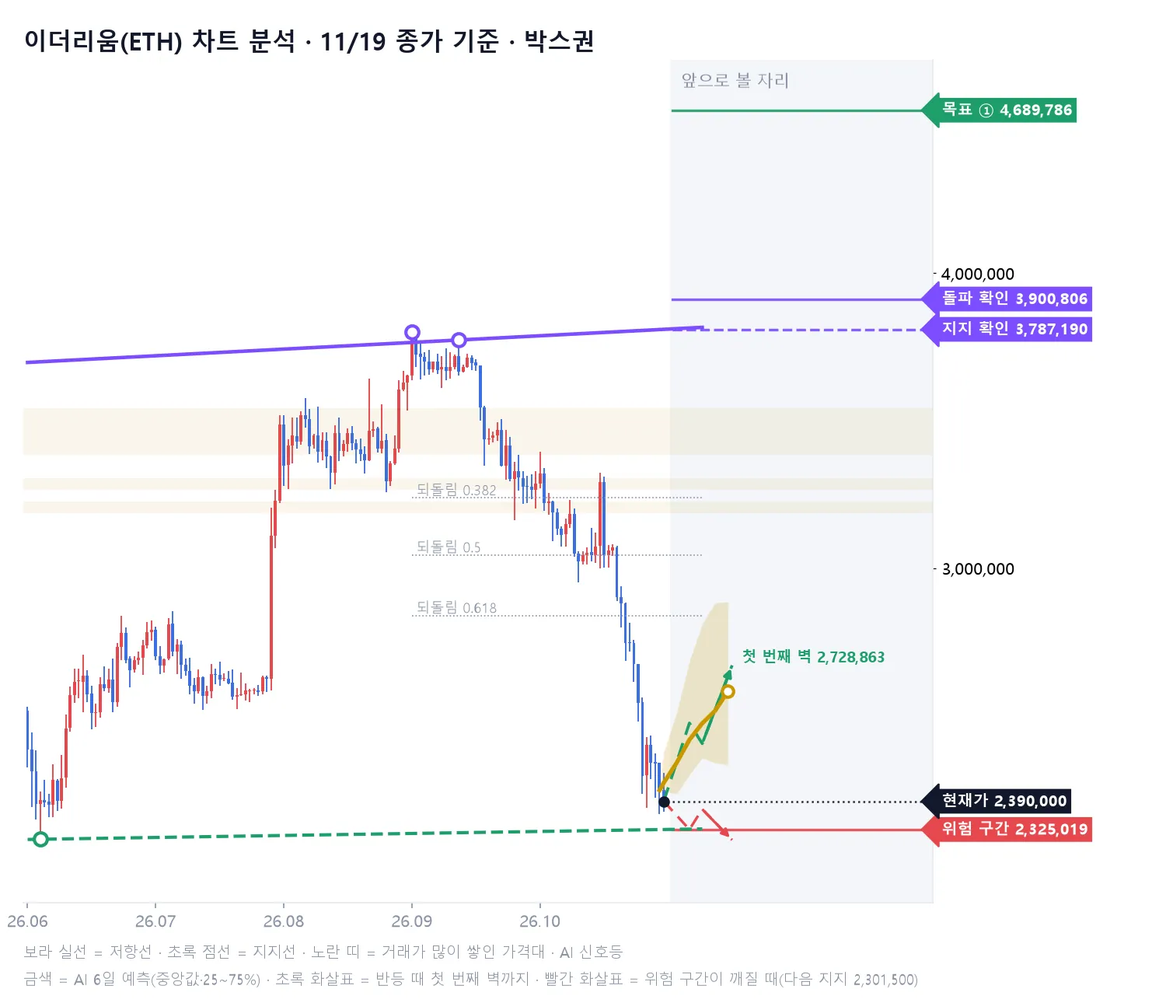
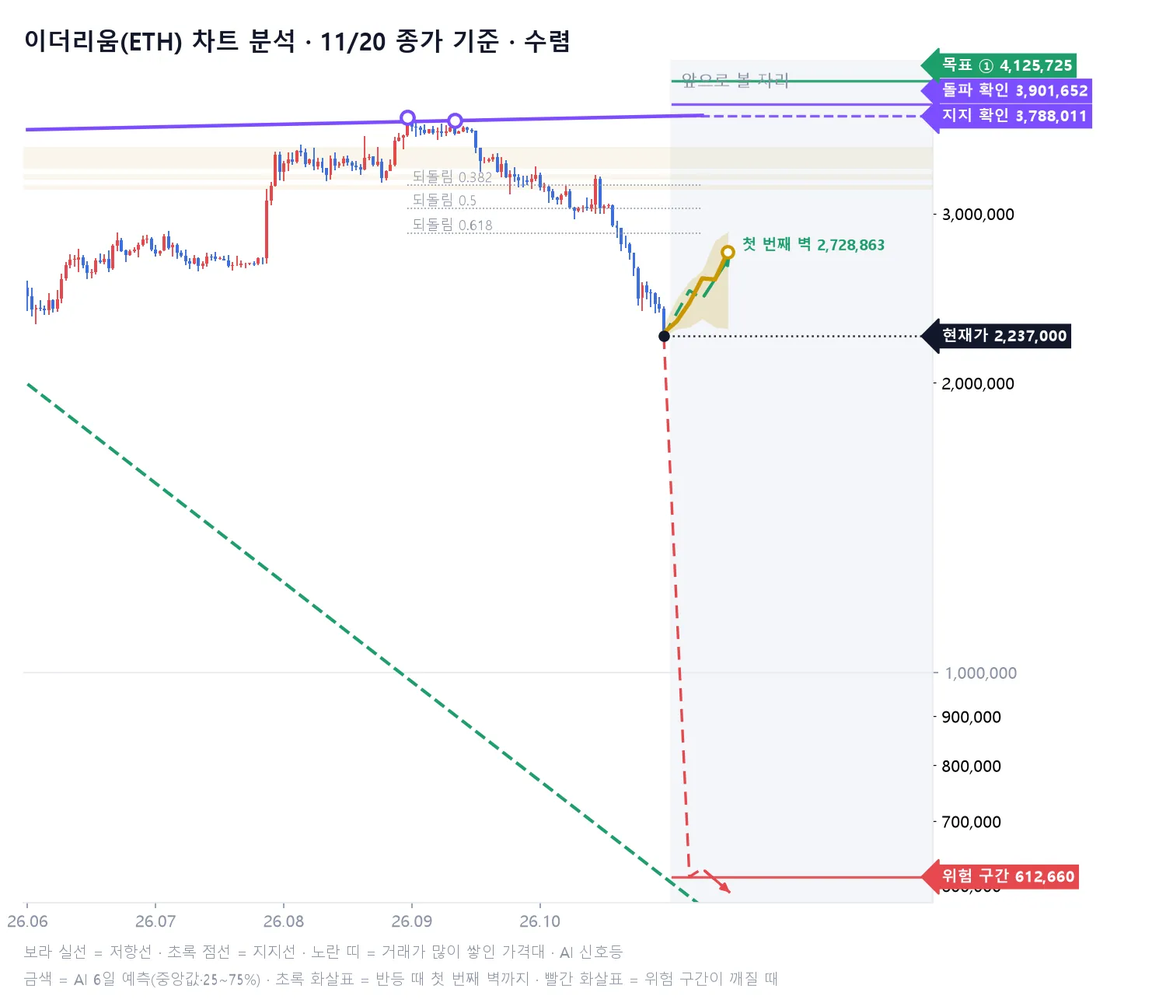
무료 공개 종목 페이지 자동 갱신

diff --git a/s/index.html b/s/index.html
@@ -81,8 +81,8 @@
     <h1>오늘의 무료 공개 종목</h1>
     <p style="margin:0;color:#B7BFD0">유튜브 쇼츠에 나온 종목의 AI 판정과 6일 예측 흐름을 누구나 볼 수 있어요</p>
   </section>
-  <div class="pk-list"><a class="card pk-item" href="BTC/"><span><b>비트코인(BTC)</b><small>코인 · 업비트 · 11/20 예측</small></span><b class="v-mx">혼돈</b></a><a class="card pk-item" href="SUI/"><span><b>수이(SUI)</b><small>코인 · 업비트 · 11/21 예측</small></span><b class="v-up">상승</b></a><a class="card pk-item" href="ZRO/"><span><b>레이어제로(ZRO)</b><small>코인 · 업비트 · 11/21 예측</small></span><b class="v-mx">혼돈</b></a><a class="card pk-item" href="XLM/"><span><b>스텔라루멘(XLM)</b><small>코인 · 업비트 · 11/21 예측</small></span><b class="v-up">상승</b></a><a class="card pk-item" href="ETC/"><span><b>이더리움클래식(ETC)</b><small>코인 · 업비트 · 11/21 예측</small></span><b class="v-up">상승</b></a><a class="card pk-item" href="MANA/"><span><b>디센트럴랜드(MANA)</b><small>코인 · 업비트 · 11/21 예측</small></span><b class="v-up">상승</b></a><a class="card pk-item" href="PALANTIR/"><span><b>팔란티어(PALANTIR)</b><small>미국 주식 · 11/21 예측</small></span><b class="v-up">상승</b></a><a class="card pk-item" href="NVIDIA/"><span><b>엔비디아(NVIDIA)</b><small>미국 주식 · 11/21 예측</small></span><b class="v-up">상승</b></a><a class="card pk-item" href="DOW/"><span><b>다우존스(DOW)</b><small>미국 주식 · 11/21 예측</small></span><b class="v-up">상승</b></a><a class="card pk-item" href="RUSSELL2000/"><span><b>러셀2000(RUSSELL2000)</b><small>미국 주식 · 11/21 예측</small></span><b class="v-up">상승</b></a><a class="card pk-item" href="MERCADOLIBRE/"><span><b>메르카도리브레(MERCADOLIBRE)</b><small>미국 주식 · 11/21 예측</small></span><b class="v-up">상승</b></a><a class="card pk-item" href="SK%ED%95%98%EC%9D%B4%EB%8B%89%EC%8A%A4/"><span><b>SK하이닉스(000660)</b><small>코스피200 · 11/20 예측</small></span><b class="v-mx">혼돈</b></a><a class="card pk-item" href="%EC%82%BC%EC%84%B1%EC%A0%84%EC%9E%90/"><span><b>삼성전자(005930)</b><small>코스피200 · 11/21 예측</small></span><b class="v-mx">혼돈</b></a><a class="card pk-item" href="%ED%95%9C%ED%99%94%EC%86%94%EB%A3%A8%EC%85%98/"><span><b>한화솔루션</b><small>코스피200 · 11/21 예측</small></span><b class="v-mx">혼돈</b></a><a class="card pk-item" href="KODEX%EB%AF%B8%EA%B5%AD%EB%82%98%EC%8A%A4%EB%8B%A5100TR/"><span><b>KODEX미국나스닥100TR</b><small>코스피200 · 11/21 예측</small></span><b class="v-up">상승</b></a><a class="card pk-item" href="TIGER2%EC%B0%A8%EC%A0%84%EC%A7%80%ED%85%8C%EB%A7%88/"><span><b>TIGER2차전지테마</b><small>코스피200 · 11/21 예측</small></span><b class="v-up">상승</b></a><a class="card pk-item" href="TIGER%EB%AF%B8%EA%B5%AD%ED%85%8C%ED%81%ACTOP10/"><span><b>TIGER미국테크TOP10</b><small>코스피200 · 11/21 예측</small></span><b class="v-up">상승</b></a><a class="card pk-item" href="KODEX2%EC%B0%A8%EC%A0%84%EC%A7%80%EC%82%B0%EC%97%85/"><span><b>KODEX2차전지산업</b><small>코스피200 · 11/21 예측</small></span><b class="v-up">상승</b></a><a class="card pk-item" href="KOSDAQ/"><span><b>코스닥(KOSDAQ)</b><small>코스피 지수 · 11/21 예측</small></span><b class="v-up">상승</b></a><a class="card pk-item" href="KOSPI/"><span><b>코스피(KOSPI)</b><small>코스피 지수 · 11/21 예측</small></span><b class="v-up">상승</b></a></div>
-  <h2 style="font-size:17px;margin:12px 0 0">지난 공개 종목</h2><div class="pk-list"><a class="card pk-item" href="APT/"><span><b>앱토스(APT)</b><small>코인 · 업비트 · 11/20 예측</small></span><b class="v-up">상승</b></a><a class="card pk-item" href="STRAX/"><span><b>저트라(STRAX)</b><small>코인 · 업비트 · 11/20 예측</small></span><b class="v-up">상승</b></a><a class="card pk-item" href="ENS/"><span><b>이더리움네임서비스(ENS)</b><small>코인 · 업비트 · 11/20 예측</small></span><b class="v-up">상승</b></a><a class="card pk-item" href="KODEXWTI%EC%9B%90%EC%9C%A0%EC%84%A0%EB%AC%BCH/"><span><b>KODEXWTI원유선물H</b><small>코스피200 · 11/20 예측</small></span><b class="v-up">상승</b></a><a class="card pk-item" href="%ED%95%9C%EC%A0%84%EA%B8%B0%EC%88%A0/"><span><b>한전기술</b><small>코스피200 · 11/20 예측</small></span><b class="v-up">상승</b></a><a class="card pk-item" href="KODEX%EA%B3%A8%EB%93%9C%EC%84%A0%EB%AC%BCH/"><span><b>KODEX골드선물H</b><small>코스피200 · 11/20 예측</small></span><b class="v-mx">혼돈</b></a><a class="card pk-item" href="ETH/"><span><b>이더리움(ETH)</b><small>코인 · 업비트 · 11/19 예측</small></span><b class="v-mx">혼돈</b></a><a class="card pk-item" href="TESLA/"><span><b>테슬라(TSLA)</b><small>미국 주식 · 11/19 예측</small></span><b class="v-mx">혼돈</b></a><a class="card pk-item" href="STRATEGY/"><span><b>스트래티지(STRATEGY)</b><small>미국 주식 · 11/19 예측</small></span><b class="v-up">상승</b></a><a class="card pk-item" href="NETFLIX/"><span><b>넷플릭스(NETFLIX)</b><small>미국 주식 · 11/19 예측</small></span><b class="v-up">상승</b></a><a class="card pk-item" href="SHIB/"><span><b>시바이누(SHIB)</b><small>코인 · 업비트 · 11/19 예측</small></span><b class="v-up">상승</b></a><a class="card pk-item" href="TOKAMAK/"><span><b>토카막네트워크(TOKAMAK)</b><small>코인 · 업비트 · 11/19 예측</small></span><b class="v-up">상승</b></a><a class="card pk-item" href="TIGER%EB%AF%B8%EA%B5%ADSP500/"><span><b>TIGER미국SP500</b><small>코스피200 · 11/19 예측</small></span><b class="v-mx">혼돈</b></a><a class="card pk-item" href="%EA%B8%B0%EC%95%84/"><span><b>기아</b><small>코스피200 · 11/19 예측</small></span><b class="v-mx">혼돈</b></a><a class="card pk-item" href="%ED%98%84%EB%8C%80%EB%A1%9C%ED%85%9C/"><span><b>현대로템</b><small>코스피200 · 11/19 예측</small></span><b class="v-up">상승</b></a><a class="card pk-item" href="TIGER%EB%B0%98%EB%8F%84%EC%B2%B4TOP10/"><span><b>TIGER반도체TOP10</b><small>코스피200 · 11/19 예측</small></span><b class="v-up">상승</b></a><a class="card pk-item" href="MBL/"><span><b>무비블록(MBL)</b><small>코인 · 업비트 · 11/18 예측</small></span><b class="v-up">상승</b></a><a class="card pk-item" href="SC/"><span><b>시아코인(SC)</b><small>코인 · 업비트 · 11/18 예측</small></span><b class="v-up">상승</b></a><a class="card pk-item" href="ELF/"><span><b>엘프(ELF)</b><small>코인 · 업비트 · 11/18 예측</small></span><b class="v-up">상승</b></a><a class="card pk-item" href="BITMINE/"><span><b>비트마인(BITMINE)</b><small>미국 주식 · 11/18 예측</small></span><b class="v-up">상승</b></a><a class="card pk-item" href="NASDAQ100/"><span><b>나스닥100(NASDAQ100)</b><small>미국 주식 · 11/18 예측</small></span><b class="v-up">상승</b></a><a class="card pk-item" href="NASDAQ/"><span><b>나스닥(NASDAQ)</b><small>미국 주식 · 11/18 예측</small></span><b class="v-up">상승</b></a><a class="card pk-item" href="DB%ED%95%98%EC%9D%B4%ED%85%8D/"><span><b>DB하이텍</b><small>코스피200 · 11/18 예측</small></span><b class="v-up">상승</b></a><a class="card pk-item" href="%ED%95%9C%ED%99%94%EC%83%9D%EB%AA%85/"><span><b>한화생명</b><small>코스피200 · 11/18 예측</small></span><b class="v-mx">혼돈</b></a><a class="card pk-item" href="SOL/"><span><b>솔라나(SOL)</b><small>코인 · 업비트 · 11/17 예측</small></span><b class="v-up">상승</b></a><a class="card pk-item" href="HBAR/"><span><b>헤데라(HBAR)</b><small>코인 · 업비트 · 11/17 예측</small></span><b class="v-up">상승</b></a><a class="card pk-item" href="NEAR/"><span><b>니어프로토콜(NEAR)</b><small>코인 · 업비트 · 11/17 예측</small></span><b class="v-up">상승</b></a><a class="card pk-item" href="CISCO/"><span><b>시스코(CISCO)</b><small>미국 주식 · 11/17 예측</small></span><b class="v-up">상승</b></a><a class="card pk-item" href="DB%EC%86%90%ED%95%B4%EB%B3%B4%ED%97%98/"><span><b>DB손해보험</b><small>코스피200 · 11/17 예측</small></span><b class="v-up">상승</b></a><a class="card pk-item" href="NIKKEI225/"><span><b>NIKKEI225</b><small>코스피200 · 11/17 예측</small></span><b class="v-up">상승</b></a><a class="card pk-item" href="LG/"><span><b>LG</b><small>코스피200 · 11/17 예측</small></span><b class="v-up">상승</b></a><a class="card pk-item" href="NEO/"><span><b>네오(NEO)</b><small>코인 · 업비트 · 11/16 예측</small></span><b class="v-up">상승</b></a><a class="card pk-item" href="MED/"><span><b>메디블록(MED)</b><small>코인 · 업비트 · 11/16 예측</small></span><b class="v-up">상승</b></a><a class="card pk-item" href="VET/"><span><b>비체인(VET)</b><small>코인 · 업비트 · 11/16 예측</small></span><b class="v-up">상승</b></a><a class="card pk-item" href="TFUEL/"><span><b>쎄타퓨엘(TFUEL)</b><small>코인 · 업비트 · 11/16 예측</small></span><b class="v-up">상승</b></a><a class="card pk-item" href="SP500/"><span><b>S&amp;P500(SPX)</b><small>미국 주식 · 11/14 예측</small></span><b class="v-dn">하락</b></a><a class="card pk-item" href="BITCOIN_ETF_FIDELITY/"><span><b>비트코인 현물 피델리티(BITCOIN_ETF_FIDELITY)</b><small>미국 주식 · 11/14 예측</small></span><b class="v-up">상승</b></a><a class="card pk-item" href="BITCOIN_ETF_ISHARES/"><span><b>비트코인 현물 아이셰어즈(BITCOIN_ETF_ISHARES)</b><small>미국 주식 · 11/14 예측</small></span><b class="v-up">상승</b></a></div>
+  <div class="pk-list"><a class="card pk-item" href="BTC/"><span><b>비트코인(BTC)</b><small>코인 · 업비트 · 11/20 예측</small></span><b class="v-mx">혼돈</b></a><a class="card pk-item" href="ETH/"><span><b>이더리움(ETH)</b><small>코인 · 업비트 · 11/21 예측</small></span><b class="v-mx">혼돈</b></a><a class="card pk-item" href="SUI/"><span><b>수이(SUI)</b><small>코인 · 업비트 · 11/21 예측</small></span><b class="v-up">상승</b></a><a class="card pk-item" href="ZRO/"><span><b>레이어제로(ZRO)</b><small>코인 · 업비트 · 11/21 예측</small></span><b class="v-mx">혼돈</b></a><a class="card pk-item" href="XLM/"><span><b>스텔라루멘(XLM)</b><small>코인 · 업비트 · 11/21 예측</small></span><b class="v-up">상승</b></a><a class="card pk-item" href="ETC/"><span><b>이더리움클래식(ETC)</b><small>코인 · 업비트 · 11/21 예측</small></span><b class="v-up">상승</b></a><a class="card pk-item" href="MANA/"><span><b>디센트럴랜드(MANA)</b><small>코인 · 업비트 · 11/21 예측</small></span><b class="v-up">상승</b></a><a class="card pk-item" href="PALANTIR/"><span><b>팔란티어(PALANTIR)</b><small>미국 주식 · 11/21 예측</small></span><b class="v-up">상승</b></a><a class="card pk-item" href="NVIDIA/"><span><b>엔비디아(NVIDIA)</b><small>미국 주식 · 11/21 예측</small></span><b class="v-up">상승</b></a><a class="card pk-item" href="DOW/"><span><b>다우존스(DOW)</b><small>미국 주식 · 11/21 예측</small></span><b class="v-up">상승</b></a><a class="card pk-item" href="RUSSELL2000/"><span><b>러셀2000(RUSSELL2000)</b><small>미국 주식 · 11/21 예측</small></span><b class="v-up">상승</b></a><a class="card pk-item" href="MERCADOLIBRE/"><span><b>메르카도리브레(MERCADOLIBRE)</b><small>미국 주식 · 11/21 예측</small></span><b class="v-up">상승</b></a><a class="card pk-item" href="SK%ED%95%98%EC%9D%B4%EB%8B%89%EC%8A%A4/"><span><b>SK하이닉스(000660)</b><small>코스피200 · 11/20 예측</small></span><b class="v-mx">혼돈</b></a><a class="card pk-item" href="%EC%82%BC%EC%84%B1%EC%A0%84%EC%9E%90/"><span><b>삼성전자(005930)</b><small>코스피200 · 11/21 예측</small></span><b class="v-mx">혼돈</b></a><a class="card pk-item" href="%ED%95%9C%ED%99%94%EC%86%94%EB%A3%A8%EC%85%98/"><span><b>한화솔루션</b><small>코스피200 · 11/21 예측</small></span><b class="v-mx">혼돈</b></a><a class="card pk-item" href="KODEX%EB%AF%B8%EA%B5%AD%EB%82%98%EC%8A%A4%EB%8B%A5100TR/"><span><b>KODEX미국나스닥100TR</b><small>코스피200 · 11/21 예측</small></span><b class="v-up">상승</b></a><a class="card pk-item" href="TIGER2%EC%B0%A8%EC%A0%84%EC%A7%80%ED%85%8C%EB%A7%88/"><span><b>TIGER2차전지테마</b><small>코스피200 · 11/21 예측</small></span><b class="v-up">상승</b></a><a class="card pk-item" href="TIGER%EB%AF%B8%EA%B5%AD%ED%85%8C%ED%81%ACTOP10/"><span><b>TIGER미국테크TOP10</b><small>코스피200 · 11/21 예측</small></span><b class="v-up">상승</b></a><a class="card pk-item" href="KODEX2%EC%B0%A8%EC%A0%84%EC%A7%80%EC%82%B0%EC%97%85/"><span><b>KODEX2차전지산업</b><small>코스피200 · 11/21 예측</small></span><b class="v-up">상승</b></a><a class="card pk-item" href="KOSDAQ/"><span><b>코스닥(KOSDAQ)</b><small>코스피 지수 · 11/21 예측</small></span><b class="v-up">상승</b></a><a class="card pk-item" href="KOSPI/"><span><b>코스피(KOSPI)</b><small>코스피 지수 · 11/21 예측</small></span><b class="v-up">상승</b></a></div>
+  <h2 style="font-size:17px;margin:12px 0 0">지난 공개 종목</h2><div class="pk-list"><a class="card pk-item" href="APT/"><span><b>앱토스(APT)</b><small>코인 · 업비트 · 11/20 예측</small></span><b class="v-up">상승</b></a><a class="card pk-item" href="STRAX/"><span><b>저트라(STRAX)</b><small>코인 · 업비트 · 11/20 예측</small></span><b class="v-up">상승</b></a><a class="card pk-item" href="ENS/"><span><b>이더리움네임서비스(ENS)</b><small>코인 · 업비트 · 11/20 예측</small></span><b class="v-up">상승</b></a><a class="card pk-item" href="KODEXWTI%EC%9B%90%EC%9C%A0%EC%84%A0%EB%AC%BCH/"><span><b>KODEXWTI원유선물H</b><small>코스피200 · 11/20 예측</small></span><b class="v-up">상승</b></a><a class="card pk-item" href="%ED%95%9C%EC%A0%84%EA%B8%B0%EC%88%A0/"><span><b>한전기술</b><small>코스피200 · 11/20 예측</small></span><b class="v-up">상승</b></a><a class="card pk-item" href="KODEX%EA%B3%A8%EB%93%9C%EC%84%A0%EB%AC%BCH/"><span><b>KODEX골드선물H</b><small>코스피200 · 11/20 예측</small></span><b class="v-mx">혼돈</b></a><a class="card pk-item" href="TESLA/"><span><b>테슬라(TSLA)</b><small>미국 주식 · 11/19 예측</small></span><b class="v-mx">혼돈</b></a><a class="card pk-item" href="STRATEGY/"><span><b>스트래티지(STRATEGY)</b><small>미국 주식 · 11/19 예측</small></span><b class="v-up">상승</b></a><a class="card pk-item" href="NETFLIX/"><span><b>넷플릭스(NETFLIX)</b><small>미국 주식 · 11/19 예측</small></span><b class="v-up">상승</b></a><a class="card pk-item" href="SHIB/"><span><b>시바이누(SHIB)</b><small>코인 · 업비트 · 11/19 예측</small></span><b class="v-up">상승</b></a><a class="card pk-item" href="TOKAMAK/"><span><b>토카막네트워크(TOKAMAK)</b><small>코인 · 업비트 · 11/19 예측</small></span><b class="v-up">상승</b></a><a class="card pk-item" href="TIGER%EB%AF%B8%EA%B5%ADSP500/"><span><b>TIGER미국SP500</b><small>코스피200 · 11/19 예측</small></span><b class="v-mx">혼돈</b></a><a class="card pk-item" href="%EA%B8%B0%EC%95%84/"><span><b>기아</b><small>코스피200 · 11/19 예측</small></span><b class="v-mx">혼돈</b></a><a class="card pk-item" href="%ED%98%84%EB%8C%80%EB%A1%9C%ED%85%9C/"><span><b>현대로템</b><small>코스피200 · 11/19 예측</small></span><b class="v-up">상승</b></a><a class="card pk-item" href="TIGER%EB%B0%98%EB%8F%84%EC%B2%B4TOP10/"><span><b>TIGER반도체TOP10</b><small>코스피200 · 11/19 예측</small></span><b class="v-up">상승</b></a><a class="card pk-item" href="MBL/"><span><b>무비블록(MBL)</b><small>코인 · 업비트 · 11/18 예측</small></span><b class="v-up">상승</b></a><a class="card pk-item" href="SC/"><span><b>시아코인(SC)</b><small>코인 · 업비트 · 11/18 예측</small></span><b class="v-up">상승</b></a><a class="card pk-item" href="ELF/"><span><b>엘프(ELF)</b><small>코인 · 업비트 · 11/18 예측</small></span><b class="v-up">상승</b></a><a class="card pk-item" href="BITMINE/"><span><b>비트마인(BITMINE)</b><small>미국 주식 · 11/18 예측</small></span><b class="v-up">상승</b></a><a class="card pk-item" href="NASDAQ100/"><span><b>나스닥100(NASDAQ100)</b><small>미국 주식 · 11/18 예측</small></span><b class="v-up">상승</b></a><a class="card pk-item" href="NASDAQ/"><span><b>나스닥(NASDAQ)</b><small>미국 주식 · 11/18 예측</small></span><b class="v-up">상승</b></a><a class="card pk-item" href="DB%ED%95%98%EC%9D%B4%ED%85%8D/"><span><b>DB하이텍</b><small>코스피200 · 11/18 예측</small></span><b class="v-up">상승</b></a><a class="card pk-item" href="%ED%95%9C%ED%99%94%EC%83%9D%EB%AA%85/"><span><b>한화생명</b><small>코스피200 · 11/18 예측</small></span><b class="v-mx">혼돈</b></a><a class="card pk-item" href="SOL/"><span><b>솔라나(SOL)</b><small>코인 · 업비트 · 11/17 예측</small></span><b class="v-up">상승</b></a><a class="card pk-item" href="HBAR/"><span><b>헤데라(HBAR)</b><small>코인 · 업비트 · 11/17 예측</small></span><b class="v-up">상승</b></a><a class="card pk-item" href="NEAR/"><span><b>니어프로토콜(NEAR)</b><small>코인 · 업비트 · 11/17 예측</small></span><b class="v-up">상승</b></a><a class="card pk-item" href="CISCO/"><span><b>시스코(CISCO)</b><small>미국 주식 · 11/17 예측</small></span><b class="v-up">상승</b></a><a class="card pk-item" href="DB%EC%86%90%ED%95%B4%EB%B3%B4%ED%97%98/"><span><b>DB손해보험</b><small>코스피200 · 11/17 예측</small></span><b class="v-up">상승</b></a><a class="card pk-item" href="NIKKEI225/"><span><b>NIKKEI225</b><small>코스피200 · 11/17 예측</small></span><b class="v-up">상승</b></a><a class="card pk-item" href="LG/"><span><b>LG</b><small>코스피200 · 11/17 예측</small></span><b class="v-up">상승</b></a><a class="card pk-item" href="NEO/"><span><b>네오(NEO)</b><small>코인 · 업비트 · 11/16 예측</small></span><b class="v-up">상승</b></a><a class="card pk-item" href="MED/"><span><b>메디블록(MED)</b><small>코인 · 업비트 · 11/16 예측</small></span><b class="v-up">상승</b></a><a class="card pk-item" href="VET/"><span><b>비체인(VET)</b><small>코인 · 업비트 · 11/16 예측</small></span><b class="v-up">상승</b></a><a class="card pk-item" href="TFUEL/"><span><b>쎄타퓨엘(TFUEL)</b><small>코인 · 업비트 · 11/16 예측</small></span><b class="v-up">상승</b></a><a class="card pk-item" href="SP500/"><span><b>S&amp;P500(SPX)</b><small>미국 주식 · 11/14 예측</small></span><b class="v-dn">하락</b></a><a class="card pk-item" href="BITCOIN_ETF_FIDELITY/"><span><b>비트코인 현물 피델리티(BITCOIN_ETF_FIDELITY)</b><small>미국 주식 · 11/14 예측</small></span><b class="v-up">상승</b></a><a class="card pk-item" href="BITCOIN_ETF_ISHARES/"><span><b>비트코인 현물 아이셰어즈(BITCOIN_ETF_ISHARES)</b><small>미국 주식 · 11/14 예측</small></span><b class="v-up">상승</b></a></div>
   <section class="card pk-cta">
     <b style="font-size:17px">전체 종목 순위와 모델별 차트는 회원 화면에서</b>
     <a class="btn big red" href="../login.html?next=index.html#signup" data-member="../index.html" data-member-text="내 포털로 가기">7일 무료로 시작하기</a>

diff --git a/s/ETH/index.html b/s/ETH/index.html
@@ -3,13 +3,13 @@
 <head>
 <meta charset="utf-8">
 <meta name="viewport" content="width=device-width, initial-scale=1">
-<title>이더리움(ETH) 전망 11/19 · AI 52개 모델 6일 예측 | AI 신호등</title>
-<meta name="description" content="11/19 기준 이더리움(ETH) 다음 거래일 AI 판정은 &#x27;혼돈&#x27;. 52개 모델 중 상승 31 · 하락 12. 6일 뒤 예측 중앙값 +10.1%. 52개 예측 모델의 6일 가격 흐름을 신호등으로 정리했어요.">
+<title>이더리움(ETH) 전망 11/21 · AI 52개 모델 6일 예측 | AI 신호등</title>
+<meta name="description" content="11/21 기준 이더리움(ETH) 다음 거래일 AI 판정은 &#x27;혼돈&#x27;. 52개 모델 중 상승 30 · 하락 9. 6일 뒤 예측 중앙값 +22.4%. 52개 예측 모델의 6일 가격 흐름을 신호등으로 정리했어요.">
 <link rel="canonical" href="https://www.ai-sinhodeung.co.kr/s/ETH/">
 <meta property="og:type" content="article">
 <meta property="og:site_name" content="AI 신호등">
-<meta property="og:title" content="이더리움(ETH) 전망 11/19 · AI 52개 모델 6일 예측 | AI 신호등">
-<meta property="og:description" content="11/19 기준 이더리움(ETH) 다음 거래일 AI 판정은 &#x27;혼돈&#x27;. 52개 모델 중 상승 31 · 하락 12. 6일 뒤 예측 중앙값 +10.1%. 52개 예측 모델의 6일 가격 흐름을 신호등으로 정리했어요.">
+<meta property="og:title" content="이더리움(ETH) 전망 11/21 · AI 52개 모델 6일 예측 | AI 신호등">
+<meta property="og:description" content="11/21 기준 이더리움(ETH) 다음 거래일 AI 판정은 &#x27;혼돈&#x27;. 52개 모델 중 상승 30 · 하락 9. 6일 뒤 예측 중앙값 +22.4%. 52개 예측 모델의 6일 가격 흐름을 신호등으로 정리했어요.">
 <meta property="og:url" content="https://www.ai-sinhodeung.co.kr/s/ETH/">
 <meta property="og:image" content="https://www.ai-sinhodeung.co.kr/assets/og-image.png">
 <meta property="og:locale" content="ko_KR">
@@ -64,7 +64,7 @@
 .ca ul.ca-ck { list-style: none; padding: 0; display: grid; grid-template-columns: repeat(auto-fill, minmax(200px, 1fr)); gap: 2px 10px; font-size: 13.5px; }
 .ca ul.ca-warn { list-style: none; padding: 0; color: #B4232A; font-size: 13.5px; }
 </style>
-<script type="application/ld+json">{"@context": "https://schema.org", "@type": "Article", "headline": "이더리움(ETH) 전망 11/19 · AI 52개 모델 6일 예측 | AI 신호등", "description": "11/19 기준 이더리움(ETH) 다음 거래일 AI 판정은 '혼돈'. 52개 모델 중 상승 31 · 하락 12. 6일 뒤 예측 중앙값 +10.1%. 52개 예측 모델의 6일 가격 흐름을 신호등으로 정리했어요.", "dateModified": "2026-11-19", "inLanguage": "ko", "url": "https://www.ai-sinhodeung.co.kr/s/ETH/", "publisher": {"@type": "Organization", "name": "AI 신호등", "url": "https://www.ai-sinhodeung.co.kr"}}</script>
+<script type="application/ld+json">{"@context": "https://schema.org", "@type": "Article", "headline": "이더리움(ETH) 전망 11/21 · AI 52개 모델 6일 예측 | AI 신호등", "description": "11/21 기준 이더리움(ETH) 다음 거래일 AI 판정은 '혼돈'. 52개 모델 중 상승 30 · 하락 9. 6일 뒤 예측 중앙값 +22.4%. 52개 예측 모델의 6일 가격 흐름을 신호등으로 정리했어요.", "dateModified": "2026-11-21", "inLanguage": "ko", "url": "https://www.ai-sinhodeung.co.kr/s/ETH/", "publisher": {"@type": "Organization", "name": "AI 신호등", "url": "https://www.ai-sinhodeung.co.kr"}}</script>
 </head>
 <body class="home landing">
 <header class="topbar">
@@ -77,7 +77,7 @@
 
 <main class="pk">
   <section class="pk-hero on-night">
-    <small>코인 · 업비트 · 11/19 예측 · AI 모델 52개</small>
+    <small>코인 · 업비트 · 11/21 예측 · AI 모델 52개</small>
     <h1>이더리움(ETH) 전망</h1>
   </section>
 
@@ -85,25 +85,25 @@
     <div class="pk-verdict">
       <div class="lamp mx" aria-hidden="true"><i></i><i></i><i></i></div>
       <div><small style="color:var(--muted);font-size:12.5px">다음 거래일(D+1) AI 판정</small><br>
-        <b class="v-mx">혼돈</b><br><span>52개 모델 중 상승 31 · 하락 12</span></div>
+        <b class="v-mx">혼돈</b><br><span>52개 모델 중 상승 30 · 하락 9</span></div>
     </div>
-    <p style="margin:10px 0 0;color:var(--sub);font-size:14px">참고: 6일 꾸준한 우상향</p>
+    <p style="margin:10px 0 0;color:var(--sub);font-size:14px">참고: 박스권 횡보</p>
   </section>
 
   <section class="card">
     <h3 style="margin-bottom:6px">6일 예측 흐름</h3>
-    <p class="hint" style="margin:0 0 10px;font-size:13px">기준가 2,416,000원 · 6일 뒤 예측 중앙값 <b class="v-mx">+10.1%</b></p>
+    <p class="hint" style="margin:0 0 10px;font-size:13px">기준가 2,237,000원 · 6일 뒤 예측 중앙값 <b class="v-mx">+22.4%</b></p>
     <svg viewBox="0 0 520 300" role="img" aria-label="최근 8일 종가와 앞으로 6일 예측 범위" class="pk-chart">
   <line x1="277.1" y1="30" x2="277.1" y2="266" stroke="#C5CAD6" stroke-dasharray="4 4"/>
-  <polygon points="277.1,246.0 315.2,208.4 353.4,168.2 391.5,113.1 429.7,71.9 467.8,47.6 506.0,46.3 506.0,221.4 467.8,219.2 429.7,214.6 391.5,230.9 353.4,249.7 315.2,246.6 277.1,246.0" fill="#C99700" fill-opacity=".14"/>
-  <polyline points="10.0,93.6 48.2,116.6 86.3,157.9 124.5,232.5 162.6,201.0 200.8,219.0 238.9,219.8 277.1,246.0" fill="none" stroke="#12182B" stroke-width="2.4" stroke-linejoin="round"/>
-  <polyline points="277.1,246.0 315.2,238.8 353.4,219.3 391.5,196.2 429.7,179.4 467.8,166.4 506.0,146.0" fill="none" stroke="#C99700" stroke-width="3" stroke-linejoin="round"/>
-  <circle cx="277.1" cy="246.0" r="4.5" fill="#12182B"/>
-  <circle cx="506.0" cy="146.0" r="6" fill="#fff" stroke="#C99700" stroke-width="3"/>
-  <text x="506" y="20" text-anchor="end" font-size="18" font-weight="700" fill="#C99700">6일 뒤 +10.1%</text>
-  <text x="10" y="290" font-size="15" fill="#8A93A6">11-11</text>
-  <text x="277.1" y="290" font-size="15" fill="#12182B" text-anchor="middle" font-weight="600">11-18 기준</text>
-  <text x="506" y="290" font-size="15" fill="#8A93A6" text-anchor="end">11-24</text>
+  <polygon points="277.1,248.3 315.2,226.9 353.4,182.3 391.5,148.3 429.7,127.4 467.8,66.1 506.0,46.3 506.0,235.7 467.8,233.1 429.7,218.3 391.5,233.0 353.4,235.7 315.2,249.7 277.1,248.3" fill="#C99700" fill-opacity=".14"/>
+  <polyline points="10.0,123.4 48.2,181.1 86.3,156.7 124.5,170.6 162.6,171.3 200.8,191.6 238.9,199.8 277.1,248.3" fill="none" stroke="#12182B" stroke-width="2.4" stroke-linejoin="round"/>
+  <polyline points="277.1,248.3 315.2,242.5 353.4,222.9 391.5,189.4 429.7,143.0 467.8,145.4 506.0,89.5" fill="none" stroke="#C99700" stroke-width="3" stroke-linejoin="round"/>
+  <circle cx="277.1" cy="248.3" r="4.5" fill="#12182B"/>
+  <circle cx="506.0" cy="89.5" r="6" fill="#fff" stroke="#C99700" stroke-width="3"/>
+  <text x="506" y="20" text-anchor="end" font-size="18" font-weight="700" fill="#C99700">6일 뒤 +22.4%</text>
+  <text x="10" y="290" font-size="15" fill="#8A93A6">11-13</text>
+  <text x="277.1" y="290" font-size="15" fill="#12182B" text-anchor="middle" font-weight="600">11-20 기준</text>
+  <text x="506" y="290" font-size="15" fill="#8A93A6" text-anchor="end">11-26</text>
 </svg>
     <div class="pk-legend"><span><i style="background:#12182B"></i>실제 종가</span><span><i style="background:#C99700"></i>모델 예측 중앙값</span><span><i style="background:#C99700;height:8px;opacity:.2"></i>모델 25~75% 범위</span></div>
   </section>
@@ -111,29 +111,29 @@
 
   <section class="card pk-cta">
     <b style="font-size:17px">📐 차트로 보면 어떤 자리일까?</b>
-    <p style="font-size:15px;color:var(--ink)">📊 차트 신호 점수 <b style="color:#8A93A6">28점 · 약</b> · AI 포함 <b style="color:#8A93A6">32점 · 약</b></p>
+    <p style="font-size:15px;color:var(--ink)">📊 차트 신호 점수 <b style="color:#8A93A6">34점 · 약</b> · AI 포함 <b style="color:#8A93A6">37점 · 약</b></p>
     <button class="btn big" type="button" onclick="var c=document.getElementById('ca');c.classList.toggle('open');this.textContent=c.classList.contains('open')?'차트 분석 접기':'📐 차트 분석 보기';if(c.classList.contains('open')){c.scrollIntoView({behavior:'smooth'});try{Portal.track('pick_chart')}catch(e){}}">📐 차트 분석 보기</button>
     <p>추세선·지지선·피보나치·거래가 몰린 가격대를 자동으로 그려서, 앞으로 볼 자리를 정리했어요</p>
   </section>
 
   <section class="card ca" id="ca">
-    <h3 style="margin:0">이더리움(ETH) 차트 분석 <small style="color:var(--muted);font-weight:400;font-size:13px">11/19 종가 2,390,000원 기준</small></h3>
-    <a href="chart.webp?v=2026-11-19" target="_blank" rel="noopener"><img src="chart.webp?v=2026-11-19" alt="이더리움(ETH) 차트 분석: 저항선·지지선·앞으로 볼 자리" loading="lazy"></a>
+    <h3 style="margin:0">이더리움(ETH) 차트 분석 <small style="color:var(--muted);font-weight:400;font-size:13px">11/20 종가 2,237,000원 기준</small></h3>
+    <a href="chart.webp?v=2026-11-20" target="_blank" rel="noopener"><img src="chart.webp?v=2026-11-20" alt="이더리움(ETH) 차트 분석: 저항선·지지선·앞으로 볼 자리" loading="lazy"></a>
     <small style="color:var(--muted);font-size:12px;margin-top:-8px">그림을 누르면 크게 볼 수 있어요</small>
-    <div class="ca-pat">지금 모양: <b>박스권</b><br>위아래 벽 사이를 오가는 모양 — 위쪽 벽 돌파 여부가 관건이에요</div>
+    <div class="ca-pat">지금 모양: <b>수렴</b><br>가격 폭이 좁아지는 중 — 빠져나오는 방향을 확인해요</div>
     
     <div class="ca-score">
       <h4 style="margin:0 0 8px">📊 차트 신호 점검</h4>
-      <div class="ca-scs"><div class="ca-sc"><small>차트만 본 점수</small><b style="color:#8A93A6">28</b><span style="background:#8A93A6">약</span></div><div class="ca-sc"><small>AI 예측까지 넣은 점수</small><b style="color:#8A93A6">32</b><span style="background:#8A93A6">약</span></div></div>
-      <div class="ca-chips"><span class="ca-chip">⚪ 박스권 · 형성 중</span></div>
-      <ul class="ca-ck"><li>▫ 반전 첫 신호(저점 상승)</li><li>▫ 전고 돌파(추세 완성)</li><li>▫ 거래량 1.5배</li><li>▫ 상승 다이버전스</li><li>▫ 하락 다이버전스 없음</li><li>▫ 큰 상승(깃대) +100%</li><li>▫ 되돌림 0.618 안</li></ul>
+      <div class="ca-scs"><div class="ca-sc"><small>차트만 본 점수</small><b style="color:#8A93A6">34</b><span style="background:#8A93A6">약</span></div><div class="ca-sc"><small>AI 예측까지 넣은 점수</small><b style="color:#8A93A6">37</b><span style="background:#8A93A6">약</span></div></div>
+      <div class="ca-chips"><span class="ca-chip">⚪ 수렴 · 형성 중</span></div>
+      <ul class="ca-ck"><li>▫ 반전 첫 신호(저점 상승)</li><li>▫ 전고 돌파(추세 완성)</li><li>✅ 거래량 1.5배</li><li>▫ 상승 다이버전스</li><li>▫ 하락 다이버전스 없음</li><li>▫ 큰 상승(깃대) +100%</li><li>▫ 되돌림 0.618 안</li></ul>
       
-      <small style="color:var(--muted);font-size:12px">모양 10/40 · 점검표 0/42 · 시장 18/18 · AI 넣은 점수 = 차트×0.8 + AI 판정(상승 20·혼돈 10·하락 0) · 70↑ 강 · 40~69 중 · 40↓ 약<br>
+      <small style="color:var(--muted);font-size:12px">모양 10/40 · 점검표 6/42 · 시장 18/18 · AI 넣은 점수 = 차트×0.8 + AI 판정(상승 20·혼돈 10·하락 0) · 70↑ 강 · 40~69 중 · 40↓ 약<br>
       조건이 몇 개 맞는지 센 점수예요. 앞으로 오를 확률이 아니에요.</small>
     </div>
-    <div class="ca-combo"><b>🤖 AI 예측과 같이 보면</b><br>다음 거래일 AI 판정 &#x27;혼돈&#x27;. AI 6일 예측 중앙값은 +10.1%(2,660,146)로, 저항선(3,787,190)까지는 못 미쳐요 → 당분간은 돌파보다 아래 지지 자리를 지키는지 보는 구간이에요.</div>
-    <div><h4 style="margin:0 0 8px">앞으로 볼 자리</h4><div class="ca-lv"><div class="goal"><b>목표 구간 ③</b><span>5,200,656원</span><small>수평 고점</small></div><div class="goal"><b>목표 구간 ②</b><span>5,043,088원</span><small>수평 고점</small></div><div class="goal"><b>목표 구간 ①</b><span>4,689,786원</span><small>피보 1.618</small></div><div class="watch"><b>돌파 확인 자리</b><span>3,900,806원</span><small>종가가 저항선보다 3% 넘게 위에서 마감 (돌파 뒤 3,673,575 아래로 다시 마감하면 돌파 실패)</small></div><div class="watch"><b>지지 확인 자리</b><span>3,787,190원</span><small>돌파 뒤 저항선이 받쳐 주는지</small></div><div class="risk"><b>위험 구간</b><span>2,325,019원</span><small>지금 가격 아래 지지선. 이 아래로 마감하면 하락 흐름이 이어질 수 있어요 — 깨지면 다음 지지 2,301,500까지 열려 있어요</small></div></div></div>
-    <div><h4 style="margin:0 0 6px">해석</h4><ul><li>지금 가격은 저항선보다 58% 아래예요. 아직 돌파를 말하기엔 거리가 있어요.</li><li>직전 큰 상승(2,300,000 → 3,777,000)의 0.96만큼 내려왔어요. 0.618 아래는 흐름이 바뀌었을 수 있는 구간이에요.</li><li>아래에서 받쳐 줄 자리: 2,325,019 / 2,301,500</li><li>비트코인 상태: 특별한 경고 없음</li></ul></div>
+    <div class="ca-combo"><b>🤖 AI 예측과 같이 보면</b><br>다음 거래일 AI 판정 &#x27;혼돈&#x27;. AI 6일 예측 중앙값은 +22.4%(2,737,873)로, 저항선(3,788,011)까지는 못 미쳐요 → 당분간은 돌파보다 아래 지지 자리를 지키는지 보는 구간이에요.</div>
+    <div><h4 style="margin:0 0 8px">앞으로 볼 자리</h4><div class="ca-lv"><div class="goal"><b>목표 구간 ③</b><span>5,043,088원</span><small>수평 고점</small></div><div class="goal"><b>목표 구간 ②</b><span>4,689,786원</span><small>피보 1.618</small></div><div class="goal"><b>목표 구간 ①</b><span>4,125,725원</span><small>패턴 높이</small></div><div class="watch"><b>돌파 확인 자리</b><span>3,901,652원</span><small>종가가 저항선보다 3% 넘게 위에서 마감 (돌파 뒤 3,674,371 아래로 다시 마감하면 돌파 실패)</small></div><div class="watch"><b>지지 확인 자리</b><span>3,788,011원</span><small>돌파 뒤 저항선이 받쳐 주는지</small></div><div class="risk"><b>위험 구간</b><span>612,660원</span><small>지금 가격 아래 지지선. 이 아래로 마감하면 하락 흐름이 이어질 수 있어요</small></div></div></div>
+    <div><h4 style="margin:0 0 6px">해석</h4><ul><li>지금 가격은 저항선보다 69% 아래예요. 아직 돌파를 말하기엔 거리가 있어요.</li><li>직전 큰 상승분을 모두 되돌렸어요. 새 바닥이 확인될 때까지는 조심스럽게 봐요.</li><li>아래에서 받쳐 줄 자리: 612,660</li><li>비트코인 상태: 특별한 경고 없음</li></ul></div>
     <p class="pk-note" style="text-align:left">차트 모양을 규칙대로 자동 분석한 참고 자료예요. 특정 가격에 사고팔라는 권유가 아니며, 가격이 어느 자리에 있는지 보는 용도로만 써 주세요.</p>
   </section>
 
